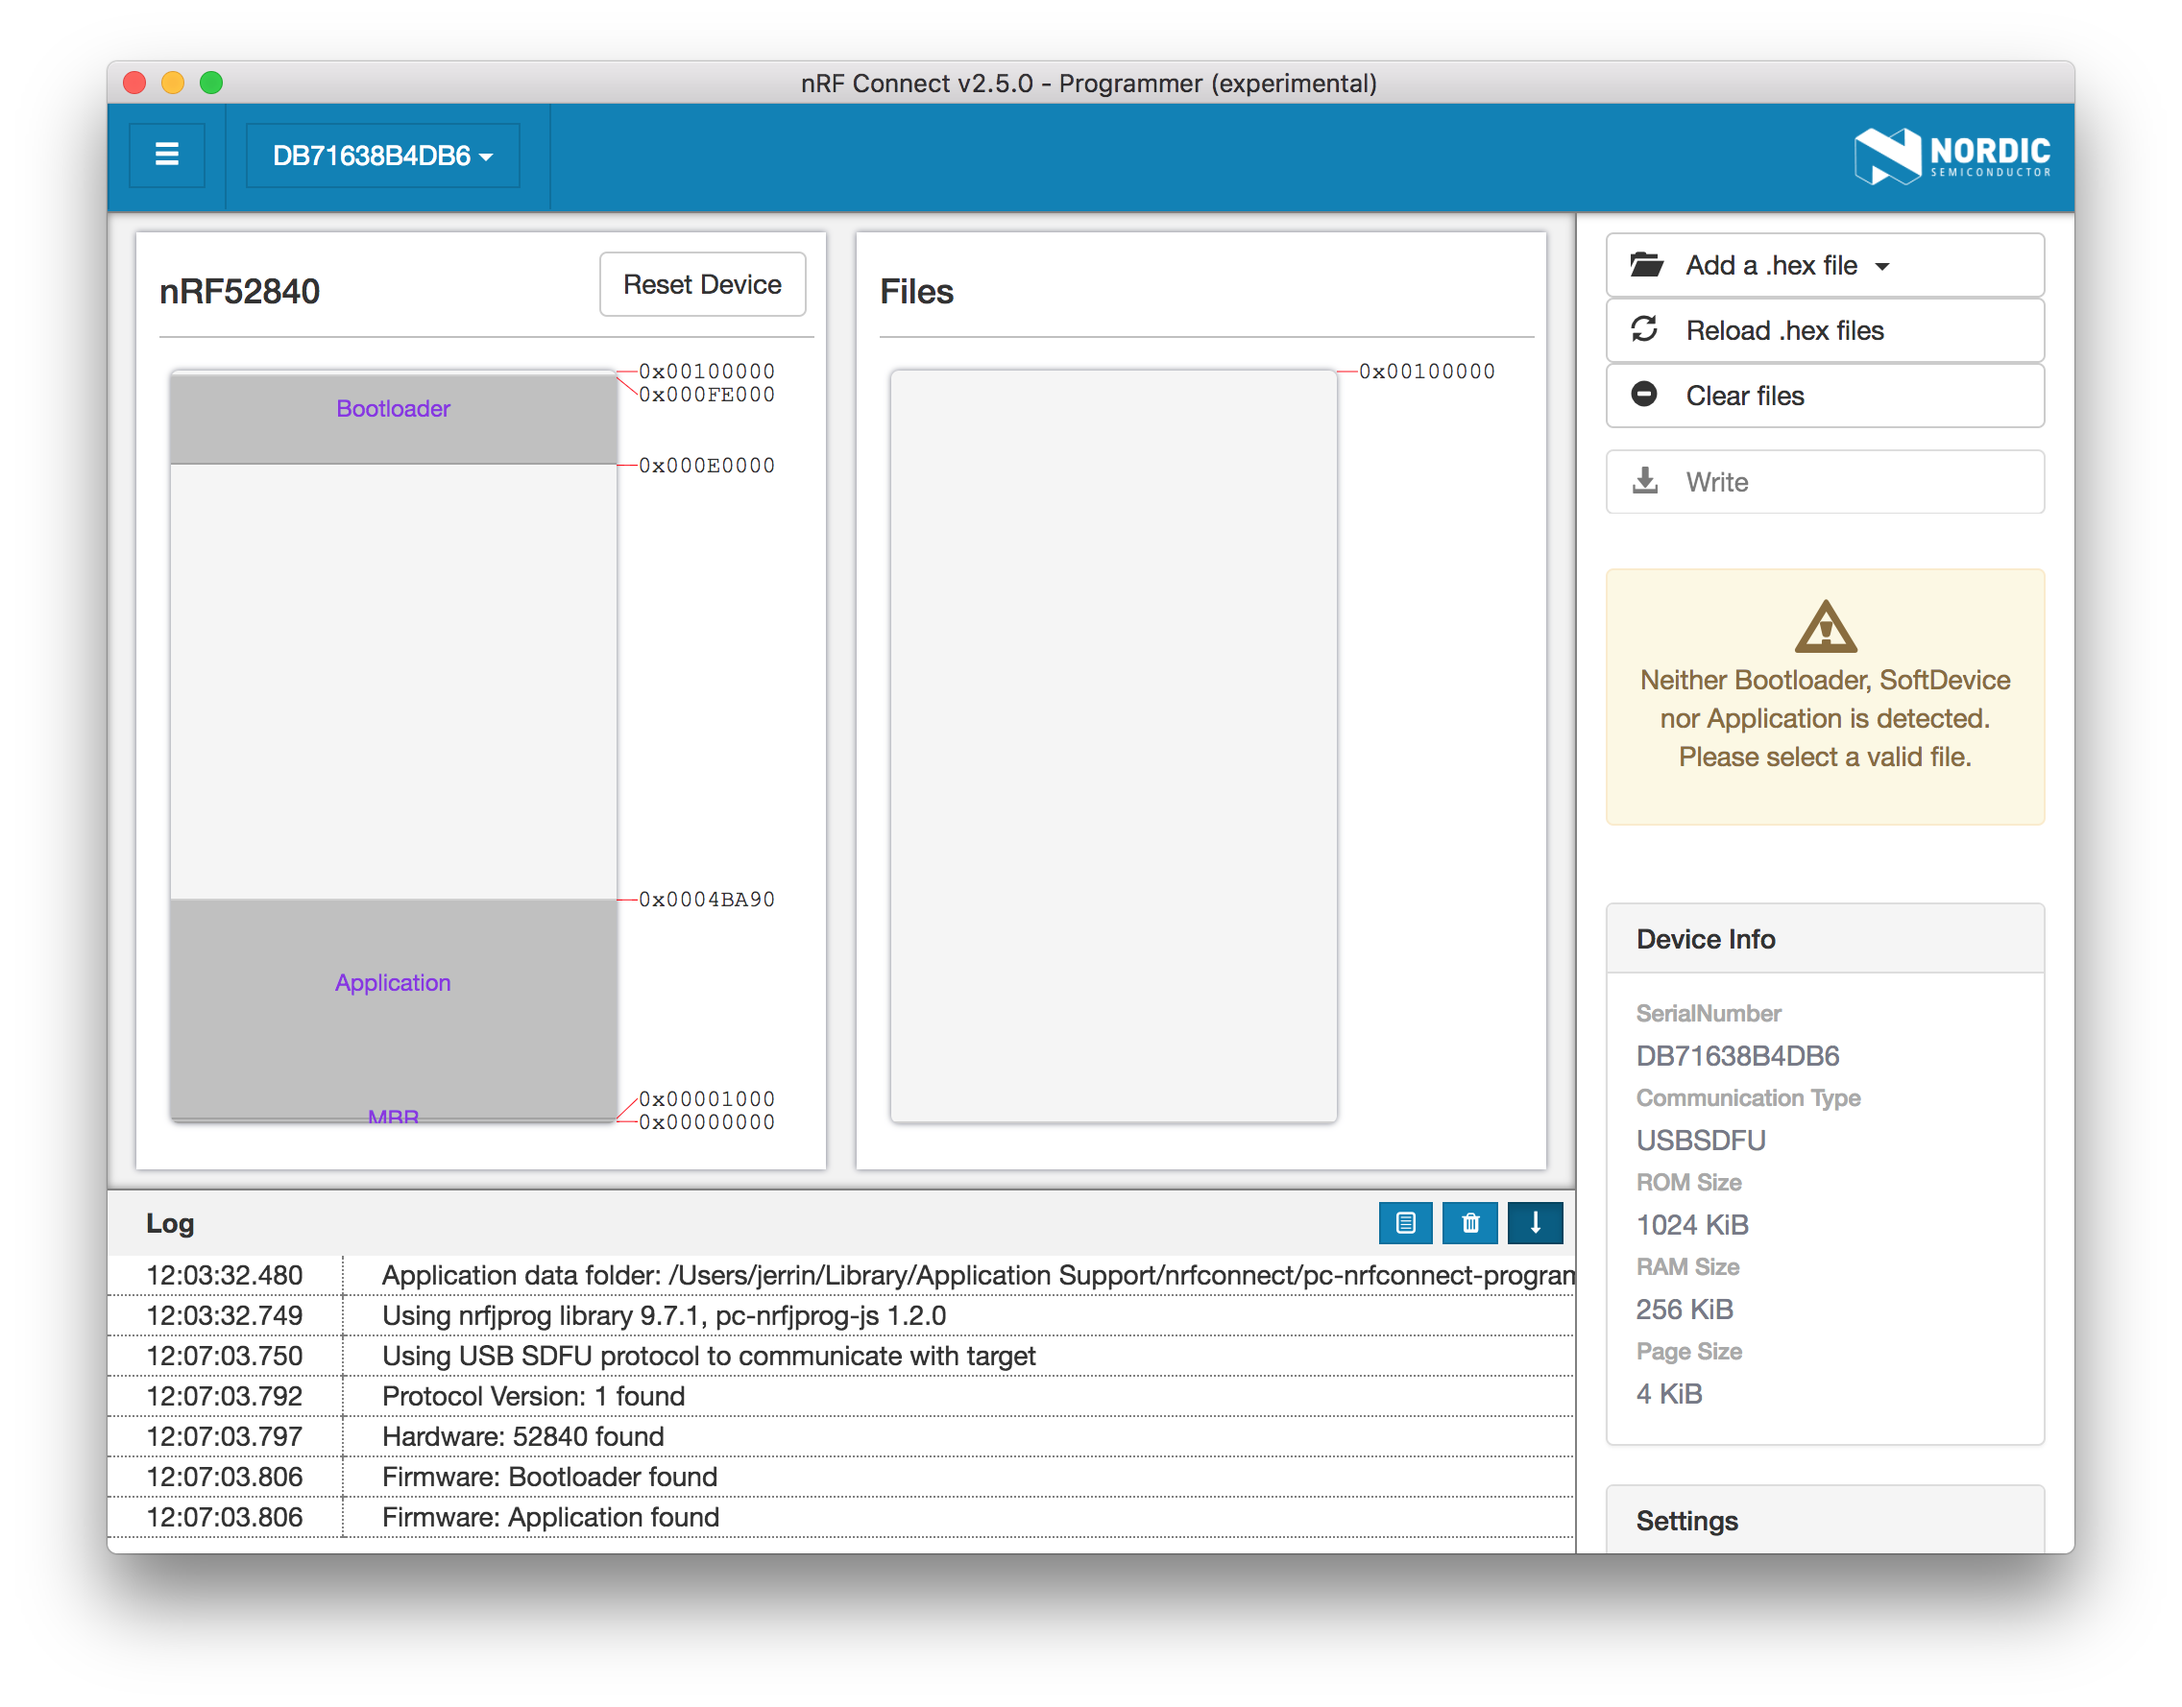
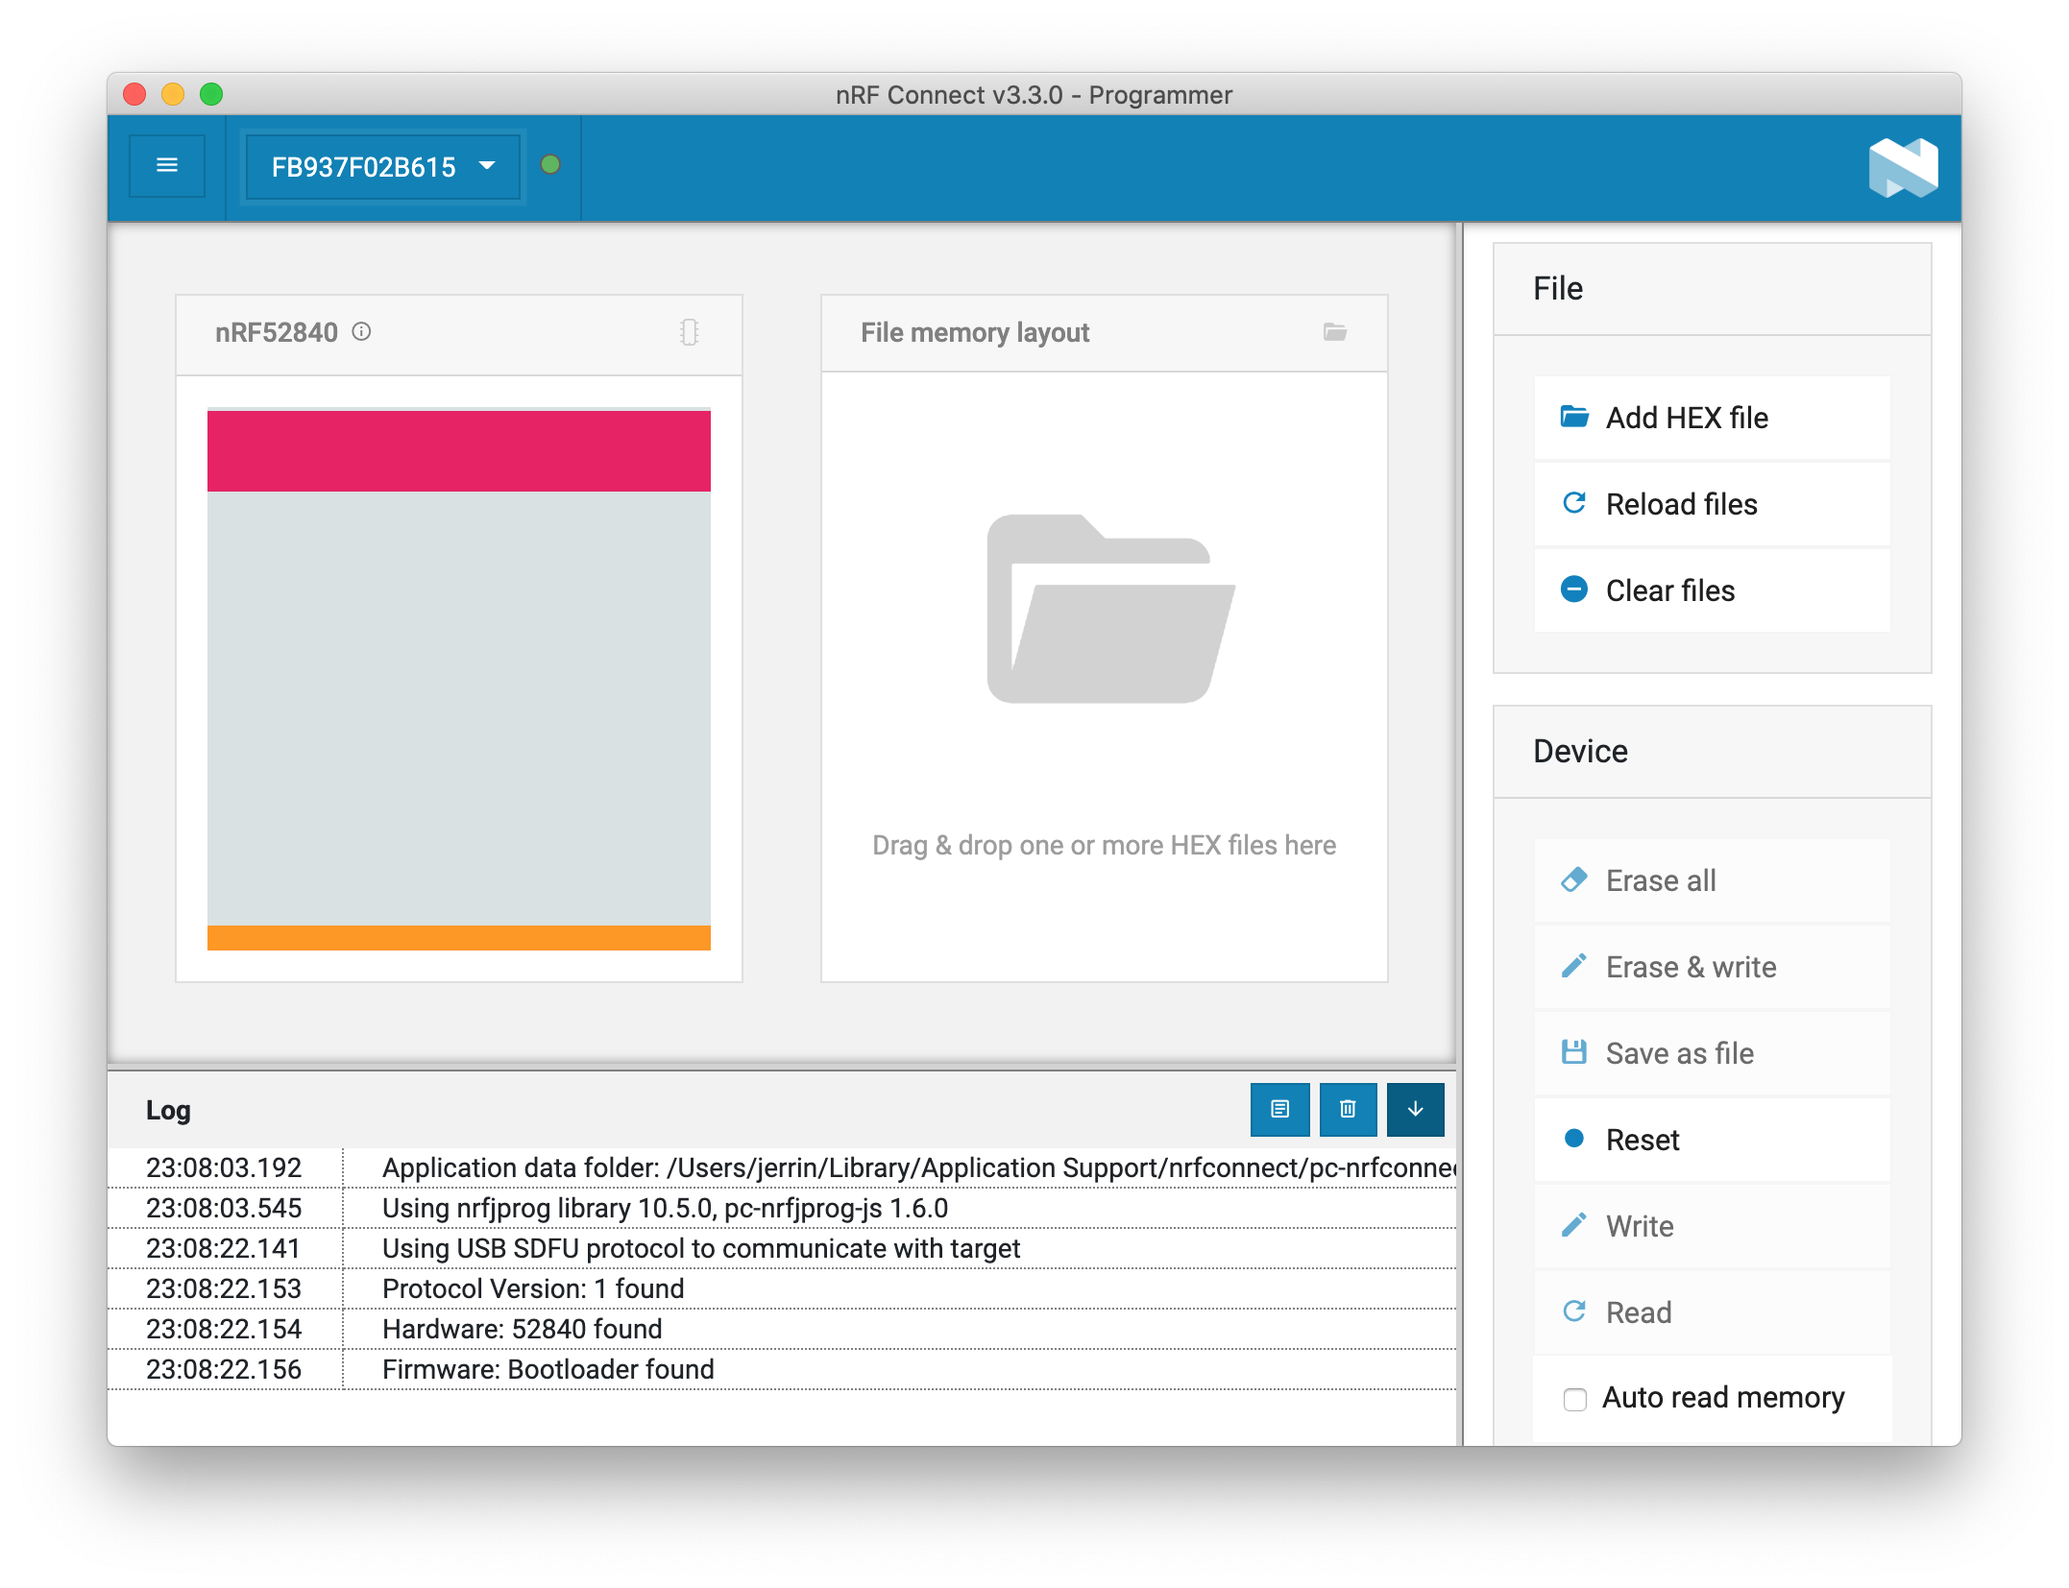
Update programming section

Changed region(s): [[0.0311, 0.0308, 0.9643, 0.9559], [0.4666, 0.3083, 0.6221, 0.4625]]

diff --git a/docs/programming.md b/docs/programming.md
@@ -1,80 +1,43 @@
-#How to program the nRF52840 MDK USB Dongle
+# Programming the nRF52840 MDK USB Dongle
 
-The nRF52840 MDK USB Dongle contains an Open Bootloader with Device Firmware Update (DFU) functionality. You can easily program the Dongle using the following tools:
+The nRF52840 MDK USB Dongle supports the following Device Firmware Update (DFU) options:
 
-* [nRF Connet for Desktop](https://www.nordicsemi.com/eng/Products/Bluetooth-low-energy/nRF-Connect-for-Desktop)
+* [DFU via Open Bootloader](#dfu-via-open-bootloader)
+* [DFU via UF2 Bootloader](#dfu-via-uf2-bootloader)
+
+## DFU via Open Bootloader
+
+The nRF52840 MDK USB Dongle was previously shipped with [Open Bootloader](https://github.com/makerdiary/nrf52840-mdk-usb-dongle/tree/master/firmware/open_bootloader) with Device Firmware Update (DFU) functionality. The source code and the project file are located in: [nrf52840-mdk-usb-dongle/examples/open_bootloader](https://github.com/makerdiary/nrf52840-mdk-usb-dongle/tree/master/examples/nrf5-sdk/open_bootloader).
+
+You can easily program the Dongle using the following tools:
+
+* [nRF Connect for Desktop](https://www.nordicsemi.com/Software-and-tools/Development-Tools/nRF-Connect-for-desktop)
 * [nrfutil](https://github.com/NordicSemiconductor/pc-nrfutil/) from the command line.
 
-## Using nRF Connect for Desktop
+### Using nRF Connect for Desktop
 
 nRF Connect for Desktop contains a programmer app called [*nRF Connect Programmer*](https://github.com/NordicSemiconductor/pc-nrfconnect-programmer). It is a cross-platform tool that enables programming firmwares to device. Memory layout for Nordic USB devices can be displayed. Content for the HEX files can be displayed, too. Moreover, content of HEX files can be written to the devices.
 
-### Installation
+![](https://github.com/NordicSemiconductor/pc-nrfconnect-programmer/raw/master/resources/screenshot.gif)
 
-To install the application you can download binaries from the [nRF Connect product page](https://www.nordicsemi.com/eng/Products/Bluetooth-low-energy/nRF-Connect-for-Desktop) on Nordic Semiconductor web pages.
+See the [GitHub](https://github.com/NordicSemiconductor/pc-nrfconnect-programmer#installation) pages for information on how to install the programmer.
 
-nRF Connect currently supports the following operating systems:
+To program the Dongle, it must be in DFU mode.
 
-* Windows
-* Ubuntu Linux 64-bit
-* macOS
-
-After nRF Connect is installed, you can find Programmer in the app list by selecting **Add/remove apps**.
-
-![](assets/images/install-nrf-connect-programmer.png)
-
-### Programming Application
-
-To program the Dongle, it must be in bootloader mode.
-
-While holding the dongle's RESET/USR button, connect it to your computer. When the Dongle has entered the bootloader mode, the RGB LED pulses RED. The Dongle is now ready for programming.
+While holding the dongle's RESET/USR button, connect it to your computer. When the Dongle has entered the DFU mode, the RGB LED pulses RED. The Dongle is now ready for programming.
 
 Launch *Programmer* app from nRF Connect, you can find the dongle and select it to start programming.
 
 ![](assets/images/launching-programmer.png)
 
-Add an application `.hex` file, you will see the memory layout of the HEX file. Make sure the application address starts from `0x00001000`, and then Write it into the Dongle:
 
-<a href="https://github.com/makerdiary/nrf52840-mdk-usb-dongle/tree/master/examples/nrf5-sdk/blinky/hex"><button data-md-color-primary="red-bud">Blinky Hex File</button></a>
+### Using nRF Util
 
-!!! warning
-	You MUST provide a correct application firmware without covering the Master Boot Record(MBR) and Bootloader. That is to say the application address should start from `0x00001000` and not exceed `0x000E0000`.
+[nRF Util](https://github.com/NordicSemiconductor/pc-nrfutil) is a Python package and command-line utility that supports Device Firmware Updates (DFU) and cryptographic functionality.
 
-![](assets/images/adding-hex-file.png)
+![](https://github.com/NordicSemiconductor/pc-nrfutil/raw/master/screenshot.gif)
 
-After programming, please physically reset the Dongle by re-plugging it. The new firmware should work as expected.
-
-![](assets/images/blinky_example.jpg)
-
-### Programming SoftDevice
-
-If you want to run your application with BLE/ANT, a SoftDevice is required before programming the application. 
-
-Select a SoftDevice `.hex` file from `<nRF5 SDK>/components/softdevice/s140/hex`, and then write it into the Dongle:
-
-![](assets/images/programming-softdevice.png)
-
-## Using nrfutil
-
-[nrfutil](https://github.com/NordicSemiconductor/pc-nrfutil) is a Python package and command-line utility that supports Device Firmware Updates (DFU) and cryptographic functionality.
-
-The nrfutil application and its library offer the following features:
-
-* DFU package generation
-* Cryptographic key generation, management, and storage
-* Bootloader settings generation
-* DFU procedure over any of the following transports:
-  	- Bluetooth Low Energy
-	- Serial over UART
-	- Serial over USB
-	- Thread unicast
-	- Thread multicast
-
-Here is the latest user guide from Nordic Semiconductor:
-
-<a href="http://infocenter.nordicsemi.com/pdf/nrfutil_v1.3.pdf"><button data-md-color-primary="red-bud">nrfutil User Guide v1.3</button></a>
-
-### Installing from PyPI
+See the [GitHub](https://github.com/NordicSemiconductor/pc-nrfutil#documentation) pages for information on how to install and use nRF Util.
 
 To install the latest published version from the Python Package Index simply type:
 
@@ -82,71 +45,91 @@ To install the latest published version from the Python Package Index simply typ
 pip install nrfutil
 ```
 
-### Updating Application
-
-Generate a package (.zip file) that you can later use to update. This command takes several options that you can list using:
-
-``` sh
-nrfutil pkg generate --help
-```
-
-Below is an example of the generation of a package from an application's `app.hex` file:
+Here is an example of the generation of a package from an application's `app.hex` file:
 
 ``` sh
 nrfutil pkg generate --hw-version 52 --sd-req 0x00 --application-version 1 --application app.hex  app_dfu_package.zip
 ```
 
-There is no SoftDevice required here, just set `--sd-req` to `0x00`.
+!!! tip
+    There is no SoftDevice required here, just set `--sd-req` to `0x00`. 
+
+    Run `nrfutil pkg generate --help` for more details.
+
+Enter DFU mode by holding the dongle's RESET/USR button and connecting to your PC. Use the following command to update firmware:
+
+``` sh
+nrfutil dfu usb-serial -pkg app_dfu_package.zip -p <your-serial-port-name>
+```
+
+## DFU via UF2 Bootloader
+
+UF2 Bootloader is an easy-to-use bootloader that appears as a flash drive. You can just copy `.uf2`-format application images to the flash drive to load new firmware. The prebuilt UF2 Bootloader firmware is located in [uf2_bootloader](https://github.com/makerdiary/nrf52840-mdk-usb-dongle/tree/master/firmware/uf2_bootloader).
+
+To create your own UF2 DFU update image, simply use the [Python conversion script](https://github.com/makerdiary/nrf52840-mdk-usb-dongle/tree/master/tools) on a `.bin` file or `.hex` file, specifying the family as `0xADA52840`.
 
 !!! tip
-    See the [nrfutil User Guide](http://infocenter.nordicsemi.com/pdf/nrfutil_v1.3.pdf) for more commands details.
+	If using a `.bin` file with the conversion script you must specify application address with the `-b` switch, this address depend on the SoftDevice size/version e.g S140 v6 is `0x26000`.
 
-Here we take the [blinky example](https://github.com/makerdiary/nrf52840-mdk-usb-dongle/tree/master/examples/nrf5-sdk/blinky/hex) as an example:
-
-![](assets/images/generating-dfu-package.png)
-
-To update the firmware, the Dongle must be in bootloader mode.
-
-While holding the dongle's RESET/USR button, connect it to your host. When the Dongle has entered the bootloader mode, the RGB LED pulses RED. It is now ready for programming.
-
-This command takes several options that you can list using:
-
+To create a UF2 image from a .bin file:
 ``` sh
-nrfutil dfu usb-serial --help
+uf2conv.py firmware.bin -c -b 0x26000 -f 0xADA52840
 ```
 
-Below is the execution of a DFU procedure of the file generated above over `/dev/cu.usbmodem1411`:
-
+To create a UF2 image from a .hex file:
 ``` sh
-nrfutil dfu usb-serial -pkg dfu_blinky.zip -p /dev/cu.usbmodem1411
+uf2conv.py firmware.hex -c -f 0xADA52840
 ```
 
-![](assets/images/nrfutil-programming.png)
+Enter DFU mode by holding the dongle's RESET/USR button and connecting to your PC. A flash drive with the name **MDK-DONGLE** will appear.
 
-The new application firmware should work as expected after Device programmed.
+Just copy the `.uf2`-format image to the flash drive the to load new firmware. 
 
-### Updating SoftDevice
+## Upgrade to UF2 Bootloader from Open Bootloader
 
-If you want to run your application with BLE/ANT, a SoftDevice is required before programming the application. 
+The nRF52840 MDK USB Dongle was previously shipped with [Open Bootloader](https://github.com/makerdiary/nrf52840-mdk-usb-dongle/tree/master/firmware/open_bootloader). You can upgrade to UF2 Bootloader to take advantage of the latest features.
 
-Here is an example for the generation of a package from a SoftDevice `.hex` file:
+!!! note
+	As Open Bootloader update must come from signed packages, the new UF2 Bootloader must be signed.
+	The signed package is located in: [firmware/open_bootloader/uf2_bootloader-0.2.13-42-g82464f9-nosd_signed.zip](https://github.com/makerdiary/nrf52840-mdk-usb-dongle/tree/master/firmware/open_bootloader)
 
-``` sh
-nrfutil pkg generate --hw-version 52 --sd-req 0x00 --softdevice s140_nrf52_6.0.0_softdevice.hex --sd-id 0xA9 s140_nrf52_6.0.0_softdevice_dfu_pkg.zip
-```
-
-Then update the package using the following command:
+Enter DFU mode by holding the dongle's RESET/USR button and connecting to your PC. Use the following command to update firmware:
 
 ``` sh
-nrfutil dfu usb-serial -pkg s140_nrf52_6.0.0_softdevice_dfu_pkg.zip -p /dev/cu.usbmodem1411
+nrfutil dfu usb-serial -pkg uf2_bootloader-0.2.13-42-g82464f9-nosd_signed.zip -p <your-serial-port-name>
 ```
 
-![](assets/images/nrfutil-sd-programming.png)
+![](assets/images/upgrade-to-uf2-bootloader.png)
 
+## Update UF2 Bootloader
+
+The UF2 Bootloader is self-upgradable. An update ensures you have the most recent features and improvements for your current version of UF2 Bootloader. 
+
+!!! tip
+	The latest prebuilt UF2 Bootloader is located in: [firmware/uf2_bootloader](https://github.com/makerdiary/nrf52840-mdk-usb-dongle/tree/master/firmware/uf2_bootloader)
+
+To update UF2 Bootloader, [adafruit-nrfutil](https://github.com/adafruit/Adafruit_nRF52_nrfutil) is needed. Run the following command to install `adafruit-nrfutil` from PyPi:
+
+``` sh
+pip3 install --user adafruit-nrfutil
+```
+
+Here is an example of the generation of a package from a `.hex` bootloader file:
+
+``` sh
+adafruit-nrfutil dfu genpkg --dev-type 0x0052 --dev-revision 52840 --bootloader uf2_bootloader-0.2.13-42-g82464f9-nosd.hex uf2_bootloader-0.2.13-42-g82464f9-nosd.zip
+```
+
+Enter DFU mode by holding the dongle's RESET/USR button and connecting to your PC. Use the following command to update UF2 Bootloader:
+
+``` sh
+adafruit-nrfutil --verbose dfu serial --package uf2_bootloader-0.2.13-42-g82464f9-nosd.zip -p <your-serial-port-name> -b 115200 --singlebank
+```
+
+![](assets/images/updating-uf2-bootloader.png)
 
 ## License
 Content on this page is licensed under the [Creative Commons Attribution 3.0 License](https://creativecommons.org/licenses/by/3.0/).
-
 
 ## Create an Issue
 
